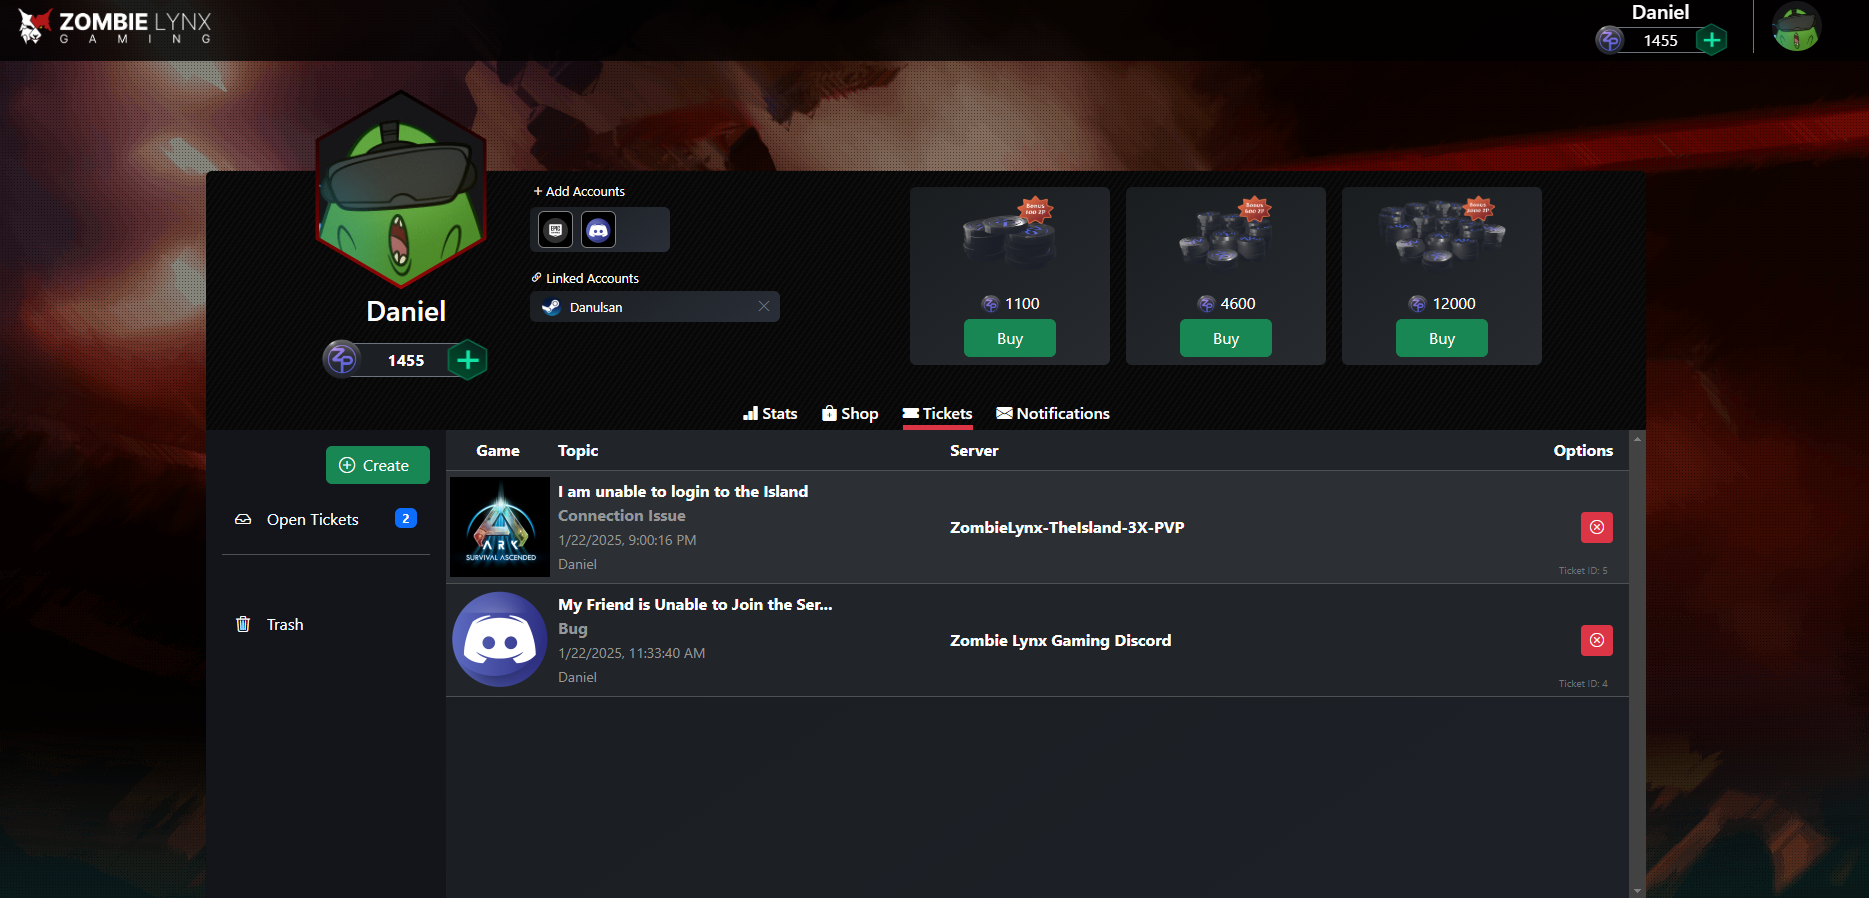
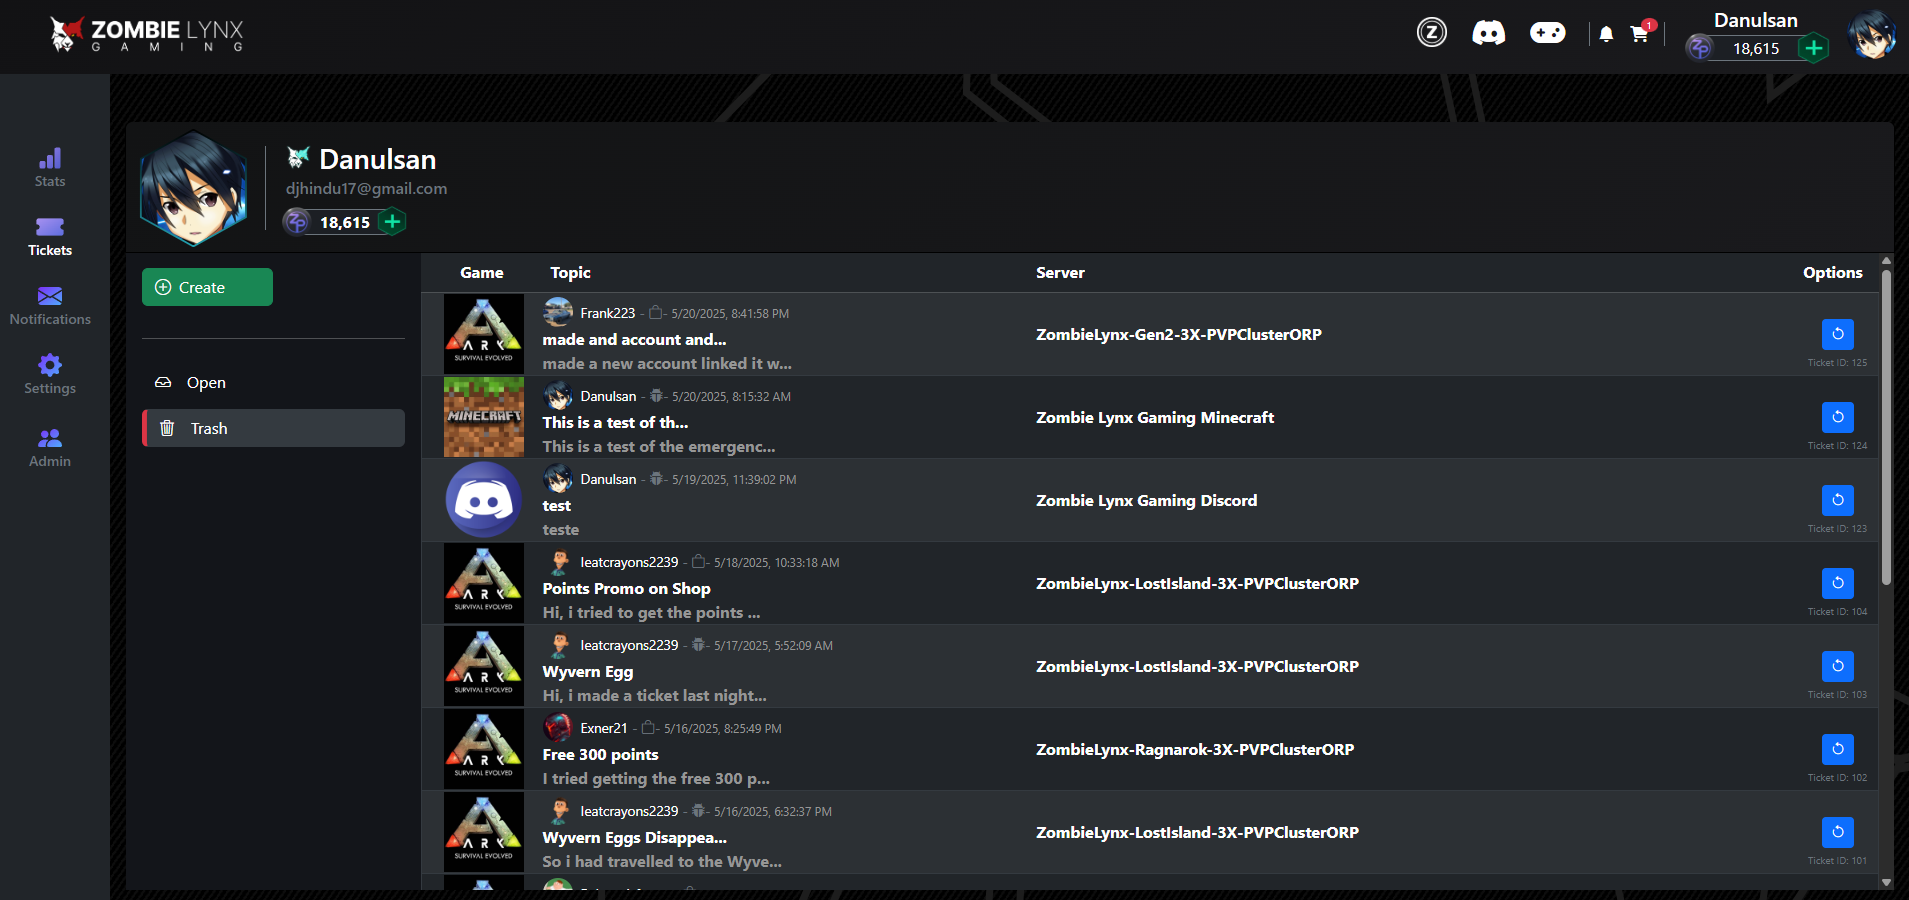
readme edits

diff --git a/README.md b/README.md
@@ -1,102 +1,132 @@
-# Zombie Lynx Portal API
+# 🧟 Zombie Lynx Gaming Web Portal
 
-## Overview
+Welcome to the official web portal of **Zombie Lynx Gaming (ZLG)** — a centralized platform for game integration, community tools, and cross-title rewards. This project enables users to link their gaming accounts (Discord, Steam, etc.) and access exclusive perks across multiple games through a unified ZLG profile. The entire system is self hosted on my home server stack using a reverse proxy via Cloudflare and Nginx.
 
-Zombie Lynx Portal API is a .NET/React application that serves as a ticket and notification portal for players using Steam, Discord, and Epic. Users can login to the portal and submit a ticket and have an ongoing conversation for real issues that may occur throughout their time at Zombie Lynx Gaming. Zombie Lynx Portal API serves as a customer service portal as well as an admin portal. Admins can assign users to tickets and issue notifications to one, many, or all users of the platform.
+<img src="screenshots/overview.png" alt="" width=""/>
 
-### Screenshots
+---
 
-Below are some screenshots showcasing the features of the Zombie Lynx Portal:
+## 🔑 Authentication & Registration
 
-- **Create Ticket**  
-  ![Create Ticket](screenshots/createticket.png)
+- Supports login and registration using **Discord OAuth** and **Steam OpenID**.
+- Also supports **email/password authentication** for standard login flow.
+- JWT-based session management for secure, stateless authentication.
 
-- **Notifications**  
-  ![Notifications](screenshots/notifications.png)
+<img src="screenshots/auth.png" alt="" width=""/>
 
-- **Single Ticket View**  
-  ![Single Ticket](screenshots/singleticket.png)
+---
 
-- **Tickets Overview**  
-  ![Tickets Overview](screenshots/tickets.png)
+## 🎮 Game Account Linking & Profile Perks
 
-## Features
+- Users can **link multiple game accounts** (e.g. Steam, Minecraft, Epic) to their ZLG profile.
+- Linking accounts unlocks **in-game perks and points synchronization**:
+  - Earn points in **Ark: Survival Evolved** based on in-game actions.
+  - Spend those points in **Minecraft** if your account is linked.
+- Integrated **soft delete** feature: users can deactivate their ZLG account safely.
+- Profile settings include:
+  - Opt in/out of marketing emails.
+  - Change password.
+  - View and manage connected accounts.
 
-- Ticket management system for player support
-- Notification system integrated with Steam, Discord, and Epic
-- User authentication and authorization
-- RESTful API endpoints for seamless integration
+<img src="screenshots/profile-linking.png" alt="" width="500"/>
+<img src="screenshots/email.png" alt="" width="500"/>
 
-## Technologies Used
+---
 
-- .NET Core for the backend API
-- React for the frontend
-- Entity Framework Core for database management
-- JWT Authentication
-- OpenID Login Integration with Steam, Discord, and Epic APIs (Discord and Epic coming soon!)
+## 🛒 Webstore Integration (Tebex)
 
-## What I Learned
+- Fully implemented webstore using **Tebex.js** with the **Headless Tebex API**.
+- Subscription and purchase data sync directly to ZLG user profiles.
+- Purchases trigger confirmation emails with itemized HTML layouts.
 
-During the development of the Zombie Lynx Portal API, I deepened my understanding of:
+<img src="screenshots/shop1.png" alt="" width="600"/>
+<img src="screenshots/shop2.png" alt="" width="600"/>
+<img src="screenshots/shop3.png" alt="" width="600"/>
 
-- **OpenID**: Explored how OpenID works for secure user authentication and how to integrate it with third-party services like Steam.
-- **JWT**: Gained a comprehensive understanding of JWT (JSON Web Tokens), including how to generate, sign, validate, and use them effectively for user authentication and authorization.
+---
 
-## Goals for the Future
+## 📨 Email Notifications
 
-Looking ahead, here are some planned features and enhancements:
+- Integrated `IEmailSender` service.
+- Sends transactional HTML emails:
+  - Purchase confirmations
+  - Subscription notices
+  - Password resets
+- Full opt-out management in the user profile.
 
-- **Connect to Discord.js**: Integrate the portal with Discord for richer community engagement and notifications.
-- **Add a Shop**: Connect to existing in game shop for better UI/UX experience.
-- **Integrate Stats Portal**: Connect to existing stats portal for single location solution for Zombie Lynx Gaming.
-- **Data Analytics**: Track Admin response and resolution time and deliver in graphs per Admin.
-- **Normalize Database Design** Check for redundancies in db design to improve integrity.
-- **Unit Tests for all endpoints** Create simple unit testing to test all endpoints moving forward.
+---
 
-## Getting Started
+## 🧾 Ticket System & Discord Integration
 
-To get started with the Zombie Lynx Portal API, follow these steps:
+- Discord-based ticketing system integrated with the **Zombie Lynx Discord Bot** using `Discord.Net`.
+- Real-time updates between the **Discord server** and **web portal** via **WebSocket**:
+  - View live ticket updates
+  - Reopen or close tickets
+  - Add/remove users from ticket channels
+- Supports full lifecycle management:
 
-1. Clone the repository:
+  - Ticket creation
+  - Channel generation in Discord
+  - Message syncing with frontend panel
 
-   ```bash
-   git clone git@github.com:DanielHenderson-17/ZombieLynxPortal.git
+<img src="screenshots/tickets.png" alt="" width="600"/>
 
-   ```
+---
 
-2. Navigate to the project directory:
+## 🖥 Server Monitoring & Status
 
-   ```bash
-   cd ZombieLynxPortalAPI
-   ```
+- View live server stats using external APIs:
+  - **Ark:SE**, **Ark:SA**
+  - **Minecraft**
+  - **Empyrion**
+  - **Eco**
+- Results displayed on the portal dashboard for transparency and player tracking.
 
-3. Install the required dependencies:
+<img src="screenshots/server-status.png" alt="" width="600"/>
 
-   ```bash
-   dotnet restore
-   npm install
-   ```
+---
 
-4. Update the configuration files with your API keys and connection strings.
+## ⚙ Tech Stack & Architecture
 
-5. Run the application:
-   ```bash
-   dotnet run
-   npm start
-   ```
+- **Frontend**: React.js with custom-built components and hooks.
+- **Backend**: ASP.NET Core with WebSocket support and REST APIs.
+- **Databases**:
+  - PostgreSQL (main database)
+  - MySQL (external game-specific DBs)
+- **EF Core** for ORM and migrations.
+- **Nginx and Cloudflare** Reverse Proxy
+- Custom **SQL triggers** ensure real-time point syncing across services and databases.
 
-## Contributing
+---
 
-Contributions are welcome! Please read the [contributing guidelines](CONTRIBUTING.md) before submitting a pull request.
+## 🛠 Admin Tools
 
-## License
+- Fully functional admin dashboard:
 
-This project is licensed under the MIT License. See the [LICENSE](LICENSE) file for details.
+  - Adjust user points manually
+  - Promote or demote account statuses
+  - View system logs and linked accounts
 
-ToDo:
-popout menu to shop
-bot not creating or closing tickets ? maybe token?
-change tebex route on steam login
-clear cart after purchase? Works for me
-gray out button for promo
-checkout rules container whitespace
+<img src="screenshots/admin.png" alt="" width="600"/>
+
+---
+
+## 🧠 What I Learned
+
+Throughout this capstone project, I gained hands-on experience with:
+
+- **Self-hosting and deployment** using Nginx as a reverse proxy and Cloudflare for DNS management, HTTPS enforcement, and security features.
+- Navigating the **complexity of OAuth callback URIs** across platforms like Discord and Steam, ensuring proper redirection and token flow in multi-environment setups.
+- Building dynamic user interfaces in React using a wide range of **component libraries and custom Node packages**, handling state transitions, modals, forms, and real-time WebSocket updates.
+- Managing and integrating **multiple databases** (PostgreSQL and MySQL) with EF Core, and using **SQL triggers** to sync game data across services in real-time.
+- Architecting a **modular and scalable full-stack application**, balancing maintainability with performance across React frontend and .NET backend services.
+
+These challenges provided valuable insights into real-world system design, integration across platforms, and the importance of clean code structure and extensibility.
+
+---
+
+## 🎯 Future Goals
+
+- Integrate **per-game statistics tracking** and display within user profiles.
+- Add a **Battle Pass system** to reward players for consistent gameplay.
+- Expand server coverage and cross-game syncing features.
